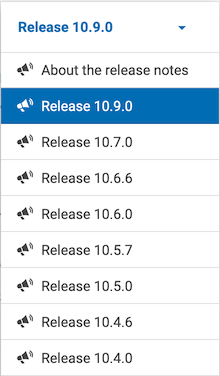
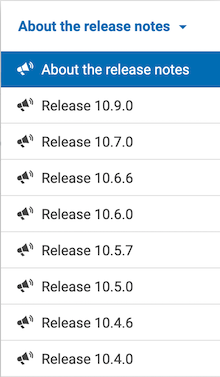
fixed link in header and added some more changes

diff --git a/themes/c8ydocs/layouts/partials/header.html b/themes/c8ydocs/layouts/partials/header.html
@@ -8,7 +8,7 @@
   <a class="dropdown-toggle version"
     type="button"
     id="dropdownVersionButton"
-    
+
     data-toggle="dropdown"
     aria-haspopup="true"
     aria-expanded="false">
@@ -25,7 +25,7 @@
     <ul class="nav d-flex flex-start hidden-xs hidden-sm nav-left">
       <li><a href="https://www.softwareag.cloud/site/product/cumulocity-iot.html">Cumulocity IoT</a></li>
       <li><a href="http://resources.cumulocity.com/documentation/jssdk/latest/#/api">Cumulocity Angular API</a></li>
-      <li><a href="http://techcommunity.softwareag.com/web/guest/home/-/product/name/cumulocity">TECHcommunity</a></li>
+      <li><a href="https://techcommunity.softwareag.com/en_en/cumulocity-iot.html">TECHCommunity</a></li>
       <li><a href="https://empower.softwareag.com/">Empower Portal</a></li>
     </ul>
     <ul class="nav flex-end nav-right">

diff --git a/content/about/introduction.md b/content/about/introduction.md
@@ -8,7 +8,21 @@ aliases:
 ---
 
 
-These release notes document all relevant changes (improvements, migration notes, documentation changes, fixes) that have been implemented in a release since the previous release.
+These release notes document all relevant changes (improvements, fixes, migration notes, documentation changes) that have been implemented in a Cumulocity IoT elease since the previous release.
+
+### Release versions
+
+Select a GA release version from the dropdown on the top left:
+
+![Versions](/images/release-notes/releasenotes-version-dropdown.png)
+
+>**Info:** The release notes reach back to GA release 10.4.0. For release notes on older GA releases, please [contact support](https://cumulocity.com/guides/about-doc/contacting-support/).
+
+### Product components
+
+Then select the product component you are interested in from the index.
+
+![Component](/images/release-notes/releasenotes-index.png)
 
 The following components are included (if relevant for the particular release):
 
@@ -20,9 +34,6 @@ The following components are included (if relevant for the particular release):
 * Cumulocity IoT Streaming Analytics
 * Cumulocity IoT Machine Learning
 * Cumulocity IoT DataHub
+* Documentation
 
-To switch versions, use the dropdown on the top left:
-
-![Versions](/images/release-notes/releasenotes-version-dropdown.png)
-
->**Info:** The release notes reach back to release 10.4.0. For release notes on older releases, please [contact support](https://cumulocity.com/guides/about-doc/contacting-support/).
+>**Info:** In most components, you will find separate entries for each published release. As you can see in the image above, for the Device Management component in 10.7.0, you will find release notes for 10.7.0.24 (the initially published 10.7.0 release), and for the maintenance releases 10.7.0.31, 10.7.0.32, 10.7.0.36. 

diff --git a/content/release-10-9-0/platform-10-9-0-bundle/10-9-0-4.md b/content/release-10-9-0/platform-10-9-0-bundle/10-9-0-4.md
@@ -531,6 +531,14 @@ MTM-35833</td>
 
 <tr>
 <td>
+REST API</td>
+<td > When uploading event binaries to the platform in chunks, and the final chunk reveals that the total file exceeds the configured file size limit, the whole operation is rolled back, and all previously stored chunks are removed correctly.</td>
+<td>
+MTM-32794</td>
+</tr>
+
+<tr>
+<td>
 Security</td>
 <td > The security for onTopLBs has been improved by introducing OSCP (Online Certificate Status Protocol) to ensure that the certificates are valid.</td>
 <td>

diff --git a/content/release-10-9-0/devices-10-9-0-bundle/10-9-0-4.md b/content/release-10-9-0/devices-10-9-0-bundle/10-9-0-4.md
@@ -462,14 +462,6 @@ MTM-34473</td>
 
 <tr>
 <td>
-REST API</td>
-<td > When uploading event binaries to the platform in chunks, and the final chunk reveals that the total file exceeds the configured file size limit, the whole operation is rolled back, and all previously stored chunks are removed correctly.</td>
-<td>
-MTM-32794</td>
-</tr>
-
-<tr>
-<td>
 Device Management</td>
 <td > The performance of the device details page has been improved.</td>
 <td>
